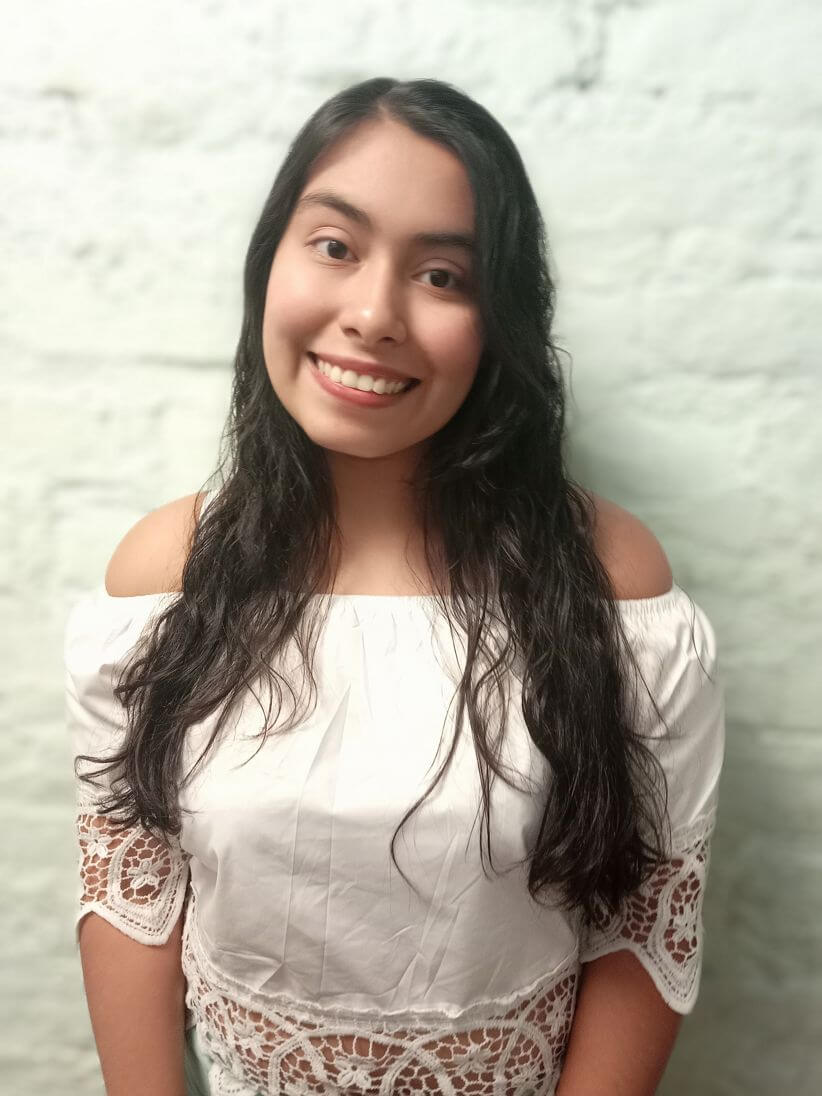
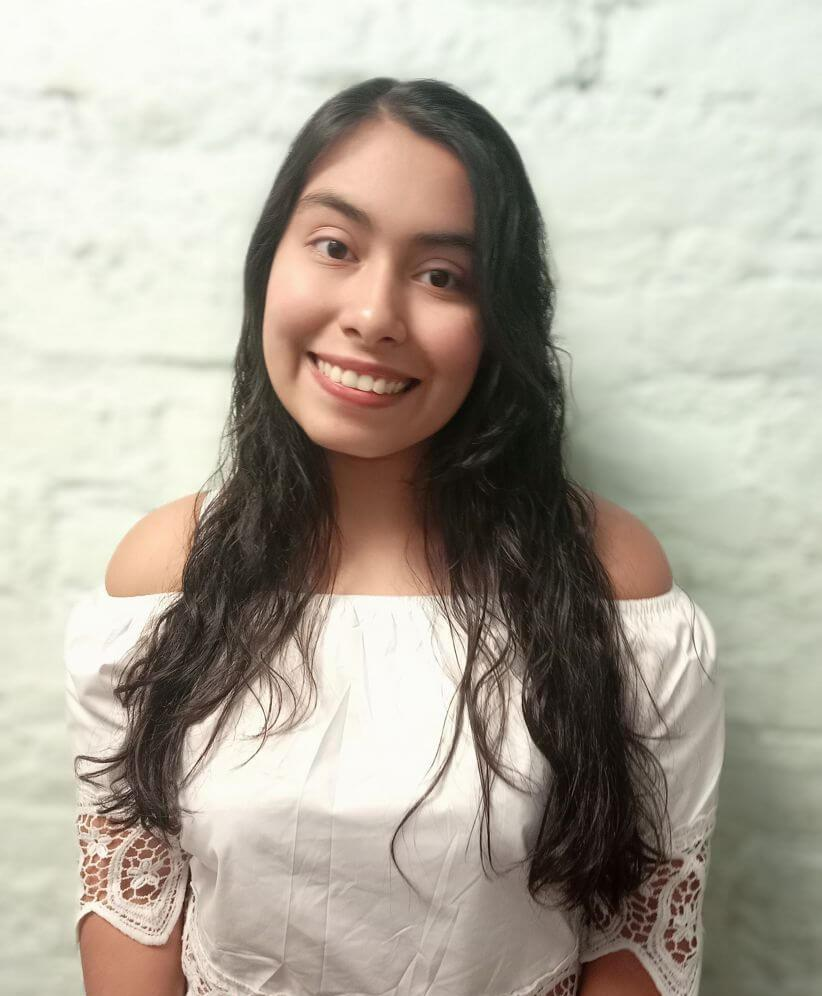
change photo

diff --git a/index.html b/index.html
@@ -42,10 +42,9 @@
         </section>
         <section class="photo_redes">
             <picture class="photo_profile">
-                <source media="(min-width:1000px" src="images/profil-big.png">
-                <source media="(min-width:650px)" src="images/profil-medium.png">
+                <source media="(min-width:1000px" src="images/profile-big.jpg">
                 <img
-                    src = "images/profil-small.png"
+                    src = "images/profile-medium.jpg"
                     alt="profile"> 
             </picture>
             <figure class="redes">

diff --git a/css/index.css b/css/index.css
@@ -127,18 +127,18 @@ main{
 }
 
 .photo_profile{
-    width: 220px;
-    height: 200px;
+    width: auto;
+    height: 240px;
     overflow: hidden;    
     margin-bottom: 1rem;
     text-align: center;
 }
 .photo_profile img{
     max-width:100%;
-    max-height:100%;
+    max-height:100%;    
     vertical-align: middle;
     border-radius: 50%;
-    border: 0.3rem solid black;
+    border: 0.2rem solid var(--font-color);
 }
 
 .redes{

diff --git a/css/index_desktop.css b/css/index_desktop.css
@@ -10,7 +10,7 @@ main{
 
 .sect-img-hello{
     width: 70%;
-    height: 31rem;
+    height: 33rem;
 }
 
 .hello{
@@ -20,14 +20,14 @@ main{
 .photo_redes{
     width: 30%;
     min-width: 200px;
-    height:  31rem;
+    height:  33rem;
     order:0;
     background-color: #FEFFFE;
 }
 
 .photo_profile{
-    width: 200px;
-    height: 200px;
+    width: auto;
+    height: 260px;
 }
 
 .skills{
